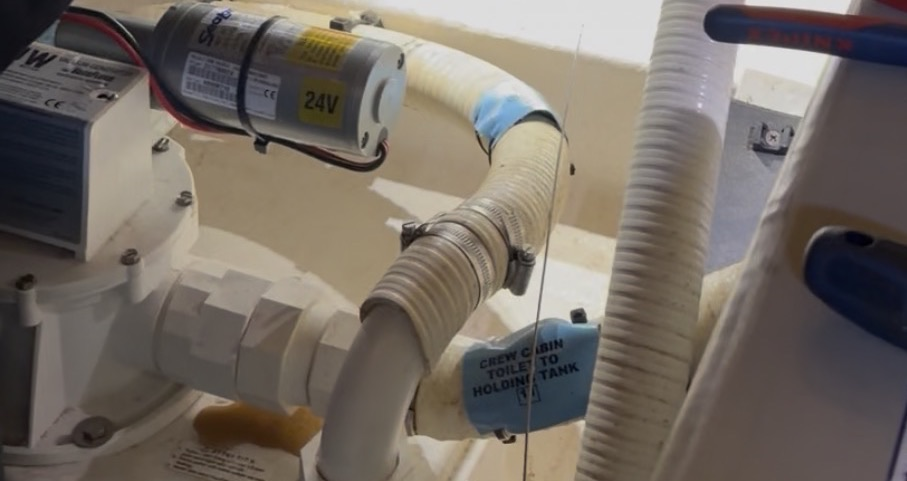
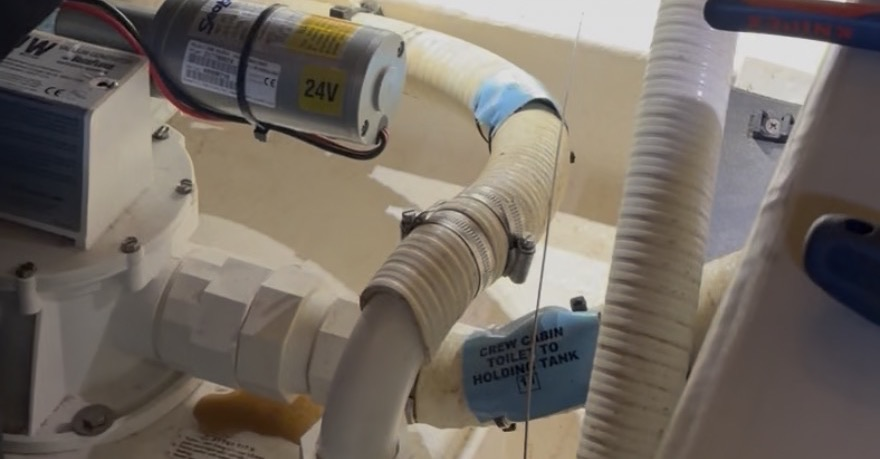
Reframe the Sanitation card onto the vacuum generator and its 24V motor
Owner clarified the vacuum generator is the unit the 24V pump is mounted to,
and supplied a reference photo of the JW unit — motor on top, tank below.

Reframed to x 0-880, y 1319-1778 of the original (880x459, ratio 1.92 against
the card's 1.92). The frame starts at the top of the 24V motor and runs down to
take in the top of the tank it is mounted to, plus the discharge plumbing and
the labelled crew-cabin line.

Builder's-plate constraint still satisfied: the plate sits at x 930-1090; this
crop ends at x 880, clearing it by 50px.

Honest limitation, worth recording rather than leaving to be discovered. This
photograph cannot show the whole generator in a card-shaped window. The unit is
tall — motor above, tank below, spanning about 560px of a portrait frame — while
the card window is wide and caps the usable height at 359px once the plate is
excluded. Every option was tested: motor with the tank cut off below, tank with
the motor cut off above, or this, which takes the motor and the top of the tank
and loses the lower tank body. None matches the reference photo's full view of
the unit.

A purpose-shot landscape photo of the generator would serve this card far
better. Until then this is the best frame the asset contains.

Alt text names the generator and its motor, which is what the frame now shows.

Verified: no missing images, JSON-LD valid.

Production main is untouched.

diff --git a/index.html b/index.html
@@ -311,7 +311,7 @@
       </div>
       <div class="service-card">
         <div class="service-card-img">
-          <img src="/assets/img/IMG_9071-cropped.jpg" alt="Marine sanitation pump and hoses, with the crew cabin toilet line to the holding tank" loading="lazy">
+          <img src="/assets/img/IMG_9071-cropped.jpg" alt="Marine sanitation vacuum generator with its 24V pump and discharge line" loading="lazy">
         </div>
         <div class="service-card-body">
           <h3>Sanitation, Heads &amp; VacuFlush</h3>
